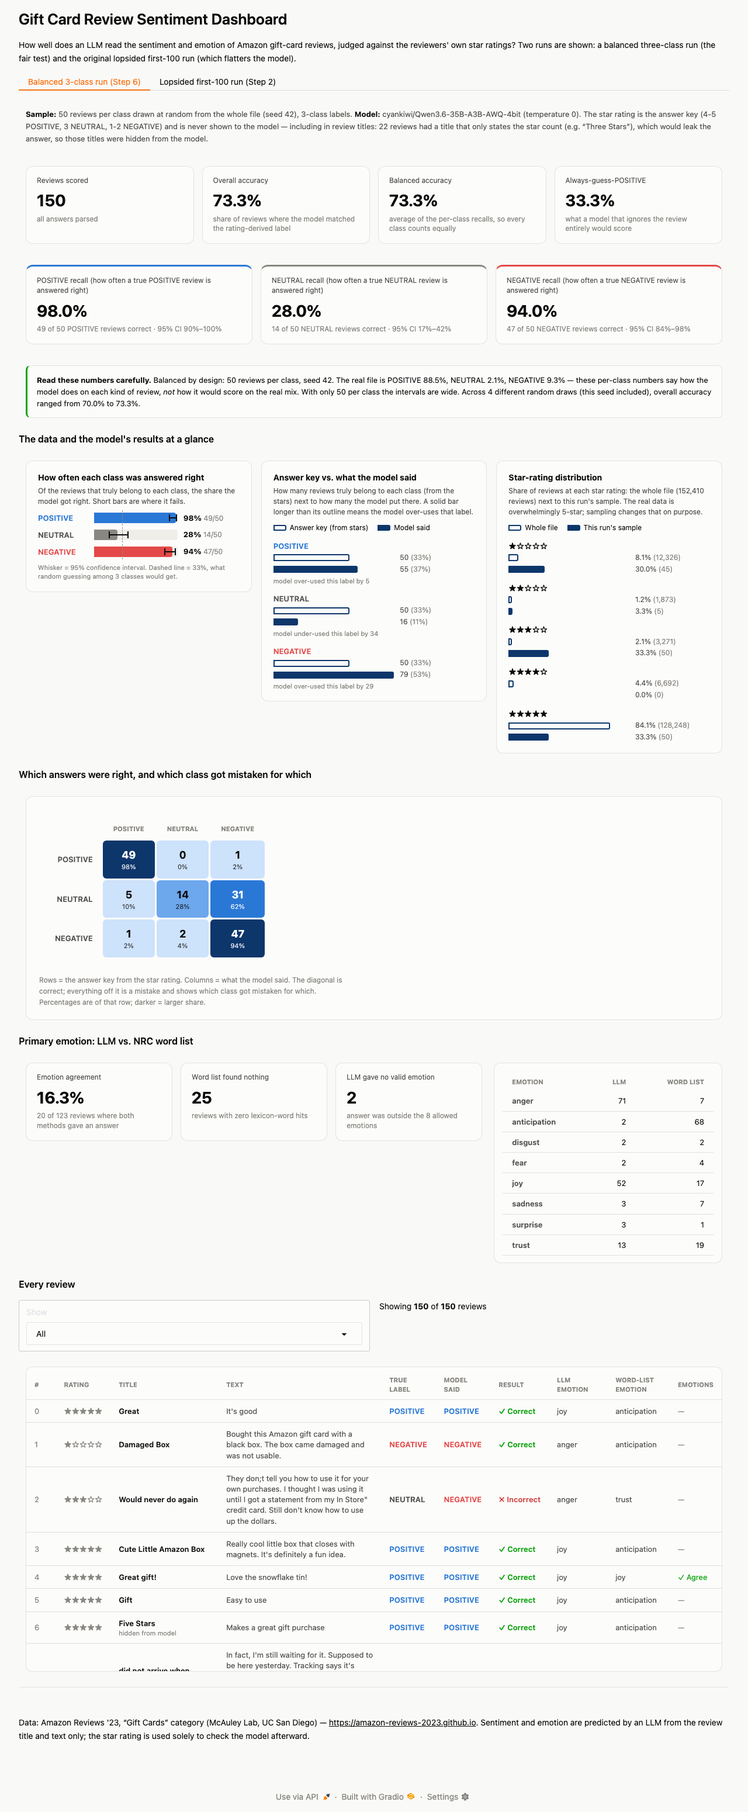
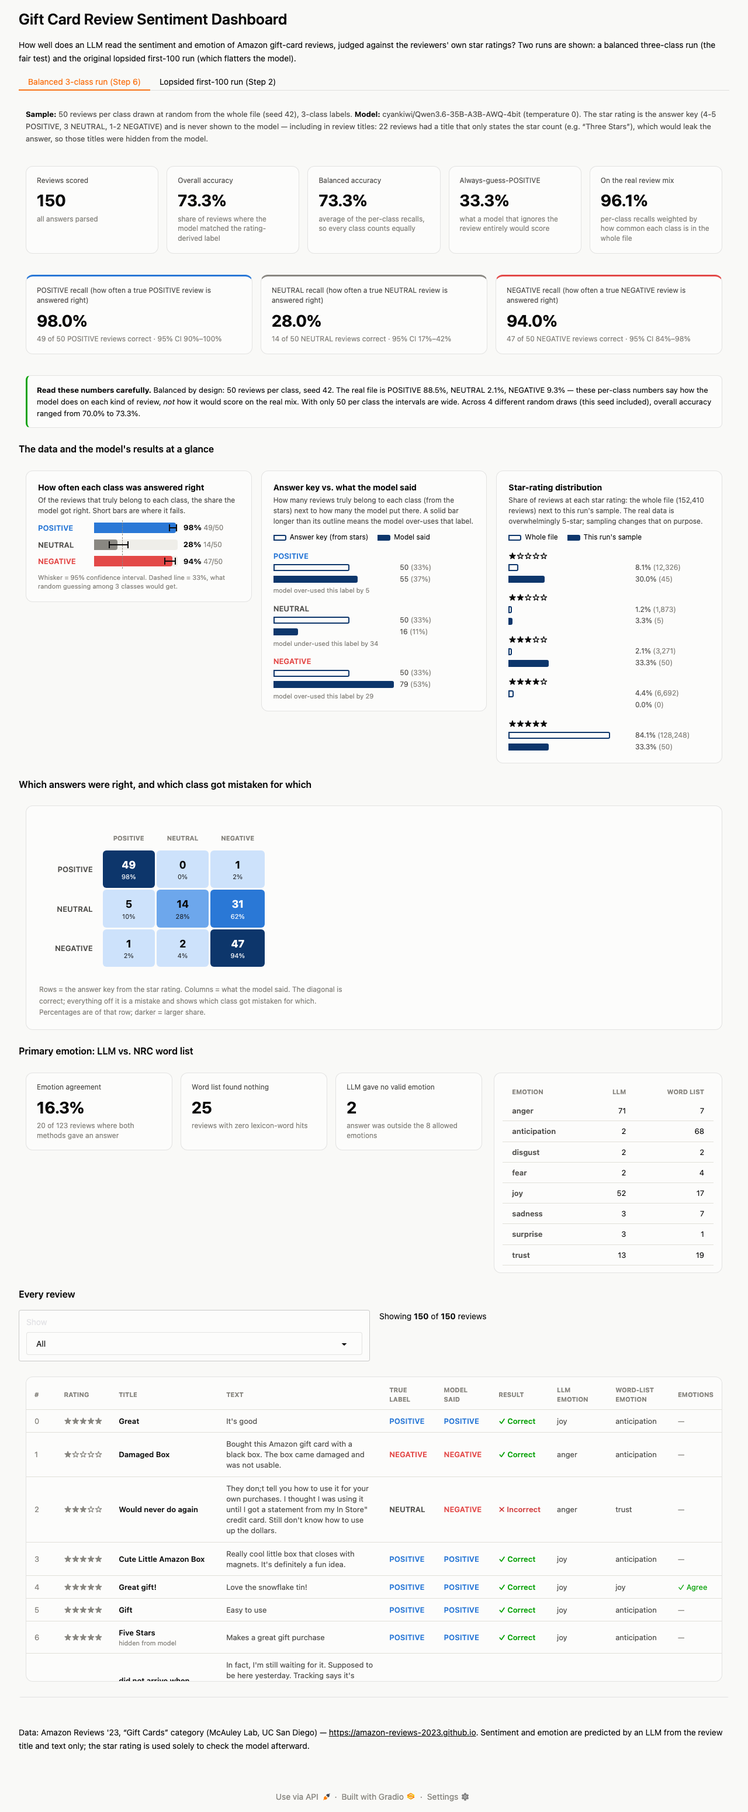
Final deliverables: README report, verification, reproducibility
- README.md: data citation, results, and answers to the four report
  questions with numbers taken from the saved output; honest limitations.
- Summary now also stores accuracy re-weighted to the whole file's class mix
  (96.1% balanced / 96.5% lopsided) and whole-file star-count-title stats;
  score_batch.py --resummarize rebuilds a summary from saved records without
  model calls. verify_numbers.py independently recomputes all of it.
- Dashboard: "real review mix" headline tile; --start-tab option.
- requirements.txt pinned to the tested versions; .env.example added.
- Corrected a code comment that wrongly claimed temperature 0 + seed makes the
  endpoint deterministic (repeatability tests showed it does not).

diff --git a/src/score_batch.py b/src/score_batch.py
@@ -26,7 +26,7 @@ import random
 import time
 from concurrent.futures import ThreadPoolExecutor, as_completed
 
-from classify import CLASSES, MODEL, SETTINGS, classify_review, is_star_title, mask_star_title
+from classify import CLASSES, MODEL, SETTINGS, classify_review, is_star_title, mask_star_title, star_title_number
 from emotion_wordlist import primary_emotion as wordlist_primary_emotion
 
 UNPARSED = "UNPARSED"
@@ -49,8 +49,13 @@ def dataset_stats(rows: list) -> dict:
     """Whole-file counts, so every report can say how skewed the data is."""
     ratings = collections.Counter(int(r["rating"]) for r in rows)
     classes = collections.Counter(true_label(r["rating"], "three") for r in rows)
+    star_titled = [(star_title_number(r.get("title")), int(r["rating"])) for r in rows if is_star_title(r.get("title"))]
     return {
         "total_rows": len(rows),
+        "star_count_titles": {
+            "total": len(star_titled),
+            "title_number_matches_rating": sum(1 for stated, actual in star_titled if stated == actual),
+        },
         "rating_counts": {str(k): ratings.get(k, 0) for k in range(1, 6)},
         "class_counts": {c: classes.get(c, 0) for c in CLASSES["three"]},
     }
@@ -151,6 +156,15 @@ def summarize(records: list, mode: str, meta: dict) -> dict:
             "precision": correct / predicted if predicted else None,
         }
 
+    # Per-class recalls weighted by how common each class is in the WHOLE file: what
+    # overall accuracy would look like on the real review mix rather than a balanced one.
+    cc = meta["dataset"]["class_counts"]
+    file_counts = ({"POSITIVE": cc["POSITIVE"], "NEGATIVE": cc["NEUTRAL"] + cc["NEGATIVE"]}
+                   if mode == "binary" else {c: cc[c] for c in classes})
+    file_total = sum(file_counts.values())
+    weights = {c: file_counts[c] / file_total for c in classes}
+    file_mix_accuracy = sum(per_class[c]["recall"] * weights[c] for c in classes if per_class[c]["recall"] is not None)
+
     recalls = [v["recall"] for v in per_class.values() if v["recall"] is not None]
     supports = {c: per_class[c]["support"] for c in classes}
     majority = max(supports, key=supports.get)
@@ -178,6 +192,7 @@ def summarize(records: list, mode: str, meta: dict) -> dict:
         "overall_accuracy": correct_total / total if total else 0.0,
         "balanced_accuracy": sum(recalls) / len(recalls) if recalls else None,
         "majority_baseline": {"class": majority, "accuracy": supports[majority] / total if total else 0.0},
+        "file_mix_weighted_accuracy": {"value": file_mix_accuracy, "weights": weights},
         "class_distribution": supports,
         "per_class": per_class,
         "confusion_matrix": confusion,
@@ -194,6 +209,7 @@ def print_report(summary: dict, out_dir: str) -> None:
     print(f"Overall accuracy:  {summary['overall_accuracy']:.1%}   "
           f"balanced accuracy: {summary['balanced_accuracy']:.1%}   "
           f"always-'{summary['majority_baseline']['class']}' baseline: {summary['majority_baseline']['accuracy']:.1%}")
+    print(f"Accuracy if weighted to the whole file's real class mix: {summary['file_mix_weighted_accuracy']['value']:.1%}")
     print(f"Unparsed: {summary['unparsed_responses']}   Truncated: {summary['truncated_responses']}   "
           f"Star-count titles hidden from model: {m['titles_hidden_from_model']}")
     for c, s in summary["per_class"].items():
@@ -223,9 +239,24 @@ def main():
     parser.add_argument("--data", default="data/Gift_Cards.jsonl")
     parser.add_argument("--out", default="output/step6")
     parser.add_argument("--workers", type=int, default=8)
+    parser.add_argument("--resummarize", metavar="RUN_DIR",
+                        help="rebuild RUN_DIR/summary.json from its saved records.json (no model calls) and exit")
     parser.add_argument("--keep-star-titles", action="store_true",
                         help="do NOT hide star-count titles like 'Three Stars' (leaky baseline, for the ablation only)")
     args = parser.parse_args()
+
+    if args.resummarize:
+        with open(os.path.join(args.resummarize, "records.json")) as f:
+            saved = json.load(f)
+        with open(os.path.join(args.resummarize, "summary.json")) as f:
+            old_meta = json.load(f)["meta"]
+        if os.path.exists(args.data):
+            old_meta["dataset"] = dataset_stats(load_all_rows(args.data))
+        summary = summarize(saved, old_meta["mode"], old_meta)
+        with open(os.path.join(args.resummarize, "summary.json"), "w") as f:
+            json.dump(summary, f, indent=2)
+        print_report(summary, args.resummarize)
+        return
 
     if args.sample == "balanced" and args.mode != "three":
         parser.error("--sample balanced needs --mode three (it samples across all three rating classes)")

diff --git a/src/verify_numbers.py b/src/verify_numbers.py
@@ -14,6 +14,7 @@ import argparse
 import collections
 import json
 import os
+import re
 import sys
 
 
@@ -66,6 +67,12 @@ def check_run(run_dir: str, failures: list) -> dict:
         expect(f"model_said[{c}]", predicted, s["per_class"][c]["predicted"])
     expect("balanced_accuracy", sum(recalls) / len(recalls), s["balanced_accuracy"])
 
+    cc = s["meta"]["dataset"]["class_counts"]
+    share = ({"POSITIVE": cc["POSITIVE"], "NEGATIVE": cc["NEUTRAL"] + cc["NEGATIVE"]} if "NEUTRAL" not in classes
+             else {c: cc[c] for c in classes})
+    weighted = sum(rc * share[c] / sum(share.values()) for c, rc in zip(classes, recalls))
+    expect("file_mix_weighted_accuracy", weighted, s["file_mix_weighted_accuracy"]["value"])
+
     both = [r for r in recs if r["llm_emotion"] and r["wordlist_emotion"]]
     agree = sum(1 for r in both if r["llm_emotion"] == r["wordlist_emotion"])
     ea = s["emotion_agreement"]
@@ -105,6 +112,22 @@ def main():
             print(f"  {'PASS' if ok else 'FAIL'}  {star} star: recounted {counts[star]:,} vs saved {want:,}")
             if not ok:
                 failures.append(f"file rating count {star}")
+        pat = re.compile(r"^\s*(one|two|three|four|five|[1-5])[\s-]*stars?[.!]*\s*$", re.IGNORECASE)
+        words = {"one": 1, "two": 2, "three": 3, "four": 4, "five": 5}
+        total = matches = 0
+        with open(args.data) as f:
+            for line in f:
+                r = json.loads(line)
+                m = pat.match(r.get("title") or "")
+                if m:
+                    total += 1
+                    matches += (words.get(m.group(1).lower()) or int(m.group(1))) == int(r["rating"])
+        want = dataset["star_count_titles"]
+        for name, got, exp in [("star-count titles", total, want["total"]), ("...that state the true rating", matches, want["title_number_matches_rating"])]:
+            ok = got == exp
+            print(f"  {'PASS' if ok else 'FAIL'}  {name}: recounted {got:,} vs saved {exp:,}")
+            if not ok:
+                failures.append(name)
     else:
         print(f"(skipping whole-file recount: {args.data} not found)")
 

diff --git a/src/classify.py b/src/classify.py
@@ -55,13 +55,26 @@ def is_star_title(title: str) -> bool:
     return bool(_STAR_TITLE.match(title or ""))
 
 
+_WORD_TO_NUM = {"one": 1, "two": 2, "three": 3, "four": 4, "five": 5}
+
+
+def star_title_number(title: str):
+    """The star count a star-count title states (e.g. 'Three Stars' -> 3), else None."""
+    m = _STAR_TITLE.match(title or "")
+    if not m:
+        return None
+    word = m.group(1).lower()
+    return _WORD_TO_NUM.get(word) or int(word)
+
+
 def mask_star_title(title: str) -> str:
     """Blank out a title that only states the star count; leave real titles alone."""
     return "" if is_star_title(title) else (title or "")
 
-# Fixed request settings -- recorded in every run's summary.json so a result
-# can be reproduced. temperature=0 plus a pinned seed keeps the endpoint's
-# output stable from run to run.
+# Fixed request settings, recorded in every run's summary.json. NOTE: these do NOT
+# make the shared endpoint bit-deterministic -- a few borderline reviews flip
+# between identical runs (measured in output/step6/repeatability.json), so the
+# saved records.json, not a re-run, is the source of record for reported numbers.
 SETTINGS = {
     "temperature": 0,
     "seed": 0,

diff --git a/src/dashboard.py b/src/dashboard.py
@@ -144,6 +144,8 @@ def render_headline_tiles(summary: dict) -> str:
         tile("Overall accuracy", pct(summary["overall_accuracy"]), "share of reviews where the model matched the rating-derived label"),
         tile("Balanced accuracy", pct(summary["balanced_accuracy"]), "average of the per-class recalls, so every class counts equally"),
         tile("Always-guess-" + base["class"], pct(base["accuracy"]), "what a model that ignores the review entirely would score"),
+        tile("On the real review mix", pct(summary["file_mix_weighted_accuracy"]["value"]),
+             "per-class recalls weighted by how common each class is in the whole file"),
     ]
     return f'<div class="tile-grid">{"".join(tiles)}</div>'
 

diff --git a/README.md b/README.md
@@ -1,0 +1,145 @@
+# Sentiment & Emotion Classification of Amazon Gift-Card Reviews
+
+MBAX 6418 — Assignment 1. An LLM classifies each Amazon gift-card review as POSITIVE / NEUTRAL / NEGATIVE and names its primary emotion; the answers are checked against the reviewers' own star ratings and shown in an interactive dashboard.
+
+**Headline.** On the original lopsided first-100 sample the model scores **97.0%**, which looks excellent. On a balanced three-class sample it scores **73.3%**, and it recognises only **28%** of the three-star (NEUTRAL) reviews — 62% of them are called NEGATIVE. Weighted to the real class mix of the data, the balanced results imply **96.1%**, i.e. the lopsided run's high score reflects how skewed the data is, not skill on the hard class.
+
+![Balanced three-class run](docs/screenshots/dashboard-balanced-3class.png)
+
+*The dashboard's balanced-run tab (the first-100 run is a second tab: [screenshot](docs/screenshots/dashboard-lopsided-first100.png)).*
+
+## Data
+
+[Amazon Reviews '23](https://amazon-reviews-2023.github.io) (McAuley Lab, UC San Diego), **Gift Cards** category: 152,410 reviews. Direct file: `https://mcauleylab.ucsd.edu/public_datasets/data/amazon_2023/raw/review_categories/Gift_Cards.jsonl.gz`. Citation:
+
+> Hou, Y., Li, J., He, Z., Yan, A., Chen, X., McAuley, J. (2024). *Bridging Language and Items for Retrieval and Recommendation.* arXiv:2403.03952.
+
+Emotion word list: the NRC Word-Emotion Association Lexicon (Mohammad & Turney), obtained through the [`nrclex`](https://pypi.org/project/NRCLex/) package's bundled data file; only the raw word→emotion table is used, the scoring is our own.
+
+**How lopsided the data is.** Star ratings in the whole file: 1★ 12,326 · 2★ 1,873 · 3★ 3,271 · 4★ 6,692 · **5★ 128,248 (84.1%)**. Under the assignment's classes that is **POSITIVE 134,940 (88.5%) · NEUTRAL 3,271 (2.1%) · NEGATIVE 14,199 (9.3%)**. NEUTRAL is very rare, so reading rows in order almost never exercises it.
+
+## What is in this repo
+
+| Deliverable | File |
+|---|---|
+| The prompts | [`prompts/sentiment_emotion_three_class.txt`](prompts/sentiment_emotion_three_class.txt) (Step 6), [`prompts/sentiment_emotion_binary.txt`](prompts/sentiment_emotion_binary.txt) (Steps 1–5, kept so the first-100 run stays reproducible) |
+| Scoring script (runs the reviews) | [`src/score_batch.py`](src/score_batch.py), using [`src/classify.py`](src/classify.py) |
+| Word-list emotion script | [`src/emotion_wordlist.py`](src/emotion_wordlist.py) |
+| Dashboard (generator + app) | [`src/dashboard.py`](src/dashboard.py) — Gradio; reads only the saved output |
+| One balanced run's raw output | [`output/step6/records.json`](output/step6/records.json) (per-review, incl. the model's raw reply) and [`summary.json`](output/step6/summary.json) |
+| Lopsided run's raw output | [`output/step2/`](output/step2/) |
+| Checks | [`src/verify_numbers.py`](src/verify_numbers.py), [`src/check_repeatability.py`](src/check_repeatability.py), [`src/check_leakage.py`](src/check_leakage.py) → `output/step6/{repeatability,leakage_check,seed_sensitivity}.json` |
+
+## Reproduce
+
+```bash
+python -m venv venv && ./venv/bin/pip install -r requirements.txt
+cp .env.example .env          # add an OpenAI-compatible endpoint + key (not needed just to view results)
+mkdir -p data && curl -L -o data/Gift_Cards.jsonl.gz https://mcauleylab.ucsd.edu/public_datasets/data/amazon_2023/raw/review_categories/Gift_Cards.jsonl.gz && gunzip -k data/Gift_Cards.jsonl.gz
+
+# the two runs reported below (each ~10 s)
+./venv/bin/python src/score_batch.py --mode binary --sample first --n 100 --out output/step2
+./venv/bin/python src/score_batch.py --mode three --sample balanced --per-class 50 --seed 42 --out output/step6
+
+./venv/bin/python src/verify_numbers.py   # recompute every number from records.json + the raw file
+./venv/bin/python src/dashboard.py        # http://localhost:7860
+```
+
+**Repeatability, honestly.** The *sample* is fixed (seed 42) and every reported number is computed deterministically from the saved `records.json`. The *model* is not: the shared endpoint is not bit-deterministic even at temperature 0 with a pinned seed and one request at a time (see Q4). Re-scoring the same 150 reviews five more times gave **72.0%, 72.0%, 73.3%, 74.0%, 72.0%** (saved run: 73.3%), so re-running yields numbers within roughly ±1 point, not identical ones. The saved run is the source of record. To view or re-verify the results no endpoint access is needed.
+
+## Method
+
+- **Answer key.** Rating 4–5 → POSITIVE, 3 → NEUTRAL, 1–2 → NEGATIVE. (The first-100 run used the assignment's earlier binary rule: ≥4 POSITIVE, else NEGATIVE.) The model is only given the review's title and text — never the rating.
+- **Prompt.** One call returns strict JSON `{"sentiment": …, "emotion": …}`. Edge cases decided in the prompt: body text outweighs a conflicting title; sarcasm counts as NEGATIVE; short reviews still get a committed answer; NEUTRAL means genuinely mixed, lukewarm, or purely factual — and a brief plainly favourable review is POSITIVE, not NEUTRAL. Emotion is one of the 8 NRC categories so it is directly comparable to the word list.
+- **Balanced sample.** 50 reviews from each class drawn from the whole file with `random.Random(42)`, without replacement (150 total).
+- **Word-list emotion.** Count each review's words against the NRC lexicon per emotion; the highest count wins (ties resolve by a fixed emotion order); none if no word matches.
+- **Reporting.** Alongside accuracy: per-class recall with 95% Wilson intervals, precision, *balanced accuracy* (mean of recalls), the always-guess-the-majority baseline, and accuracy re-weighted to the whole file's class mix.
+
+## Results
+
+| | Lopsided (Step 2) | Balanced (Step 6) |
+|---|---|---|
+| Sample | first 100 rows, 2 classes | 50 per class, seed 42, 3 classes |
+| Class counts in sample | POSITIVE 93 · NEGATIVE 7 | POSITIVE 50 · NEUTRAL 50 · NEGATIVE 50 |
+| Overall accuracy | **97.0%** | **73.3%** |
+| Balanced accuracy (mean recall) | 91.8% | 73.3% |
+| Always-guess-POSITIVE baseline | 93.0% | 33.3% |
+| Recall POSITIVE | 97.8% (91/93) | 98.0% (49/50), 95% CI 90–100% |
+| Recall NEUTRAL | — | **28.0% (14/50), 95% CI 17–42%** |
+| Recall NEGATIVE | 85.7% (6/7), 95% CI 49–97% | 94.0% (47/50), 95% CI 84–98% |
+| Accuracy weighted to the real class mix | 96.5% | 96.1% |
+
+Across four different random balanced draws (seeds 42, 7, 123, 2024) overall accuracy was 73.3%, 70.0%, 70.7%, 72.0%; NEUTRAL recall 28%, 28%, 22%, 32%. Seed 42 happens to be the most flattering draw and was fixed before scoring, not chosen after; its POSITIVE class contains no 4★ reviews (other seeds: 2, 0, 1).
+
+## The four questions
+
+### 1. Why did the lopsided run look so accurate, and what did equal sampling change?
+
+The first 100 rows are 93% POSITIVE, and the model is very good at POSITIVE (97.8% recall). A model that answered POSITIVE every time would already score **93.0%**, so the model's 97.0% is only 4 points above doing nothing. Its NEGATIVE score (85.7%) rests on **7 reviews** (95% CI 49–97%), and NEUTRAL was not a class at all — the two 3★ reviews in that sample were folded into NEGATIVE. Balanced accuracy was already lower (91.8%).
+
+Equal sampling changed what the score means: each class now carries a third of the weight, the do-nothing baseline drops to 33.3%, and the rare class the lopsided run could not see is exposed — NEUTRAL recall of 28%. Overall accuracy fell to **73.3%**. That drop combines two changes (adding NEUTRAL *and* rebalancing), so it is not a like-for-like comparison; the cleaner statement is the last table row: weighting the balanced recalls by the file's real mix gives **96.1%**, almost exactly the lopsided run's number. The 97% was not wrong — it just answers "how often is the model right on the reviews that actually exist", which is dominated by the easy class, not "how good is it at each kind of review".
+
+### 2. Where do the mistakes go?
+
+Balanced run (rows = answer key from stars, columns = model's answer; 50 reviews per row):
+
+| true \ answered | POSITIVE | NEUTRAL | NEGATIVE |
+|---|---|---|---|
+| POSITIVE | **49** | 0 | 1 |
+| NEUTRAL | 5 | **14** | **31** |
+| NEGATIVE | 1 | 2 | **47** |
+
+3★ reviews do **not** get their own class: 31 of 50 (62%) were answered NEGATIVE, 5 (10%) POSITIVE, and only 14 (28%) NEUTRAL. The direction is one-sided: NEUTRAL reviews are absorbed into NEGATIVE, while only 2 of 50 NEGATIVE reviews were called NEUTRAL. The model answered NEUTRAL just 16 times out of 150 (the key has 50); when it does say NEUTRAL it is usually right (precision 14/16 = 87.5%), it just says it too rarely. Because so many NEUTRAL reviews land in NEGATIVE, NEGATIVE's precision is only 47/79 = 59.5% even though its recall is 94%. Across the four seeds, 3★→NEGATIVE was 31, 35, 36 and 28 out of 50 — the pattern is not a quirk of one draw.
+
+Reading the mistakes suggests this is partly the *answer key* and not only the model: many 3★→NEGATIVE reviews are genuine complaints (a card that had not arrived on schedule, a price field that kept changing the amount, unclear instructions that ended in an unexpected charge), so a text-only reader calling them NEGATIVE is defensible. The 3★→POSITIVE cases are mostly very short favourable reviews ("Nice", "Work"). The prompt's NEUTRAL definition also matters; alternative prompts were not tested, so the 28% is specific to this one.
+
+### 3. How do the LLM's emotions and the word list's differ, and why?
+
+They agree on only **20 of 123** balanced-run reviews where both gave an answer (**16.3%**; first-100 run: 21/84, 25.0%).
+
+| | anger | anticipation | joy | trust | other |
+|---|---|---|---|---|---|
+| LLM | 71 | 2 | 52 | 13 | 10 (+2 invalid) |
+| Word list | 7 | **68** | 17 | 19 | 14 (no answer for 25) |
+
+- The **LLM reads meaning**: it says *anger* for negative and neutral complaints (71) and *joy* for praise (52), following the sentiment.
+- The **word list counts words**, and the NRC lexicon tags many everyday words with several emotions at once ("good", "perfect", "money" all carry *anticipation*). Anticipation is the top score in 68 of the 125 reviews it could answer — and 51 of those 68 were **ties** that the fixed tie-break order resolves toward *anticipation*, so part of that dominance is an artefact of the method. On NEGATIVE reviews the word list's most common answer is *anticipation* (22 of 50), and for the 71 reviews the LLM called *anger* it said *anticipation* 33 times.
+- The word list also cannot see negation or context, and **finds nothing at all in 25 of 150 reviews** (median 4 words — "Nice", "Work"), where the LLM always answers. The LLM occasionally leaves its allowed vocabulary (2 answers, e.g. "disappointment"); those are counted as "no valid emotion", not repaired.
+
+### 4. Bugs and issues along the way, and workarounds
+
+*Data / evaluation*
+- **The rating leaked through review titles.** Amazon fills a skipped title with the star count ("Three Stars"): 31,967 reviews (21.0% of the file) have such a title, and it states the true rating in 31,935 of them. 22 of the 150 balanced-sample reviews had one. Such titles are now hidden from both the model and the word list (marked "hidden from model" in the dashboard). An ablation on the same sample (3 runs each way) shows the leak mattered: accuracy on those 22 reviews **87.9% with the title visible vs 77.3% hidden**; overall 74.4% vs 72.9%.
+- **The model endpoint is not deterministic**, even at temperature 0 with a pinned seed. I first suspected my 8 parallel workers changing the server's batching; sending one request at a time did **not** help (two sequential runs still differed), so the cause is on the server. Workaround: measure and report the spread (Repeatability section) and treat saved output as the source of record.
+- **Combining tasks in one prompt is not neutral.** In an early run, adding the emotion request to the sentiment prompt moved first-100 accuracy from 96% to 97% (one sarcastic-sounding review flipped; see the Step 5 commit message).
+- **Reasoning model returned empty answers.** The endpoint's Qwen3 model spent the whole token budget "thinking" and returned `content=None`; fixed by disabling thinking through `chat_template_kwargs`.
+- **Thin token margin.** Replies use ~22 tokens against an initial limit of 30, with no check for truncation; raised to 60 and `finish_reason` is now recorded (0 truncated in the saved runs).
+- **Out-of-vocabulary emotion** ("disappointment") is counted explicitly rather than silently dropped.
+
+*Dashboard / UI*
+- **Review text rendered as HTML.** Many reviews contain the original listing's literal `<br />` (row 4 of the first-100 sample is one); the browser was interpreting it as markup, and reviews could contain worse. Fixed with `html.escape` on all review text.
+- **Gradio's default theme is dark**, which made all text near-white on the light page. Overriding its theme variables fixed that — but my first broad CSS override then *flattened every inline colour* (status colours turned black, and the dark confusion-matrix cells became black-on-navy and unreadable). Found only by zooming into a screenshot; fixed by scoping the override to Markdown blocks and setting colour on the cells' inner elements. Also fixed: black row borders and a near-black dropdown focus state from Gradio's styles.
+- **A table column was clipped off-screen** in the first (static HTML) version because the table was wider than its card; the dashboard now scrolls the table inside its own container.
+- **Tiny chart bars:** value labels sit beside bars (never on them), non-zero bars have a 6px minimum, and zero-value bars draw nothing; verified in the browser (smallest non-zero bar renders 6px wide).
+
+*Process with the agent*
+- The system had two root-owned dotfiles (`~/.config`, `~/.zshrc`), which broke GitHub CLI login until ownership/config location was fixed.
+- I first missed the black-on-navy bug because I checked values, not contrast; the final browser check therefore also tests text/background contrast.
+- The preview browser's Gradio dropdown ignored simulated typing, so filters were tested by driving real click events and, separately, by checking every filter's row count against the confusion matrix in Python.
+
+## How the numbers were checked
+
+- `src/verify_numbers.py` recomputes every headline number from `records.json` **without** calling the scorer's code (answer key derived from the star ratings; confusion matrix, recalls, balanced and re-weighted accuracy, emotion agreement) and recounts the whole-file rating and star-title counts from the raw data: all checks pass.
+- An in-browser pass on the running dashboard compared 111 values against numbers computed independently from the raw records — displayed percentages, confusion-matrix cells, chart bar values and pixel geometry, and table row counts — with zero mismatches. Every dashboard filter's row count also equals the corresponding confusion-matrix cell.
+- Screenshots were produced by running `python src/dashboard.py --start-tab balanced|lopsided` and capturing it with headless Chrome.
+
+## Limitations
+
+- 50 reviews per class is small: the intervals above are wide (NEUTRAL recall could plausibly be 17–42%), and the four draws differ by up to ~3 points.
+- The star rating is a noisy answer key, particularly for 3★; "wrong" does not always mean the model misread the text.
+- One model, one prompt, and no NEUTRAL prompt variants were compared.
+- Word-list emotion is a deliberately simple baseline (no negation, no context).
+- The dashboard is forced to a light theme regardless of the viewer's OS setting.
+
+---
+*Built with an AI coding agent (Claude Code) directing the work; the draft of this report was generated with the agent from the saved output and then reviewed by the author.*
